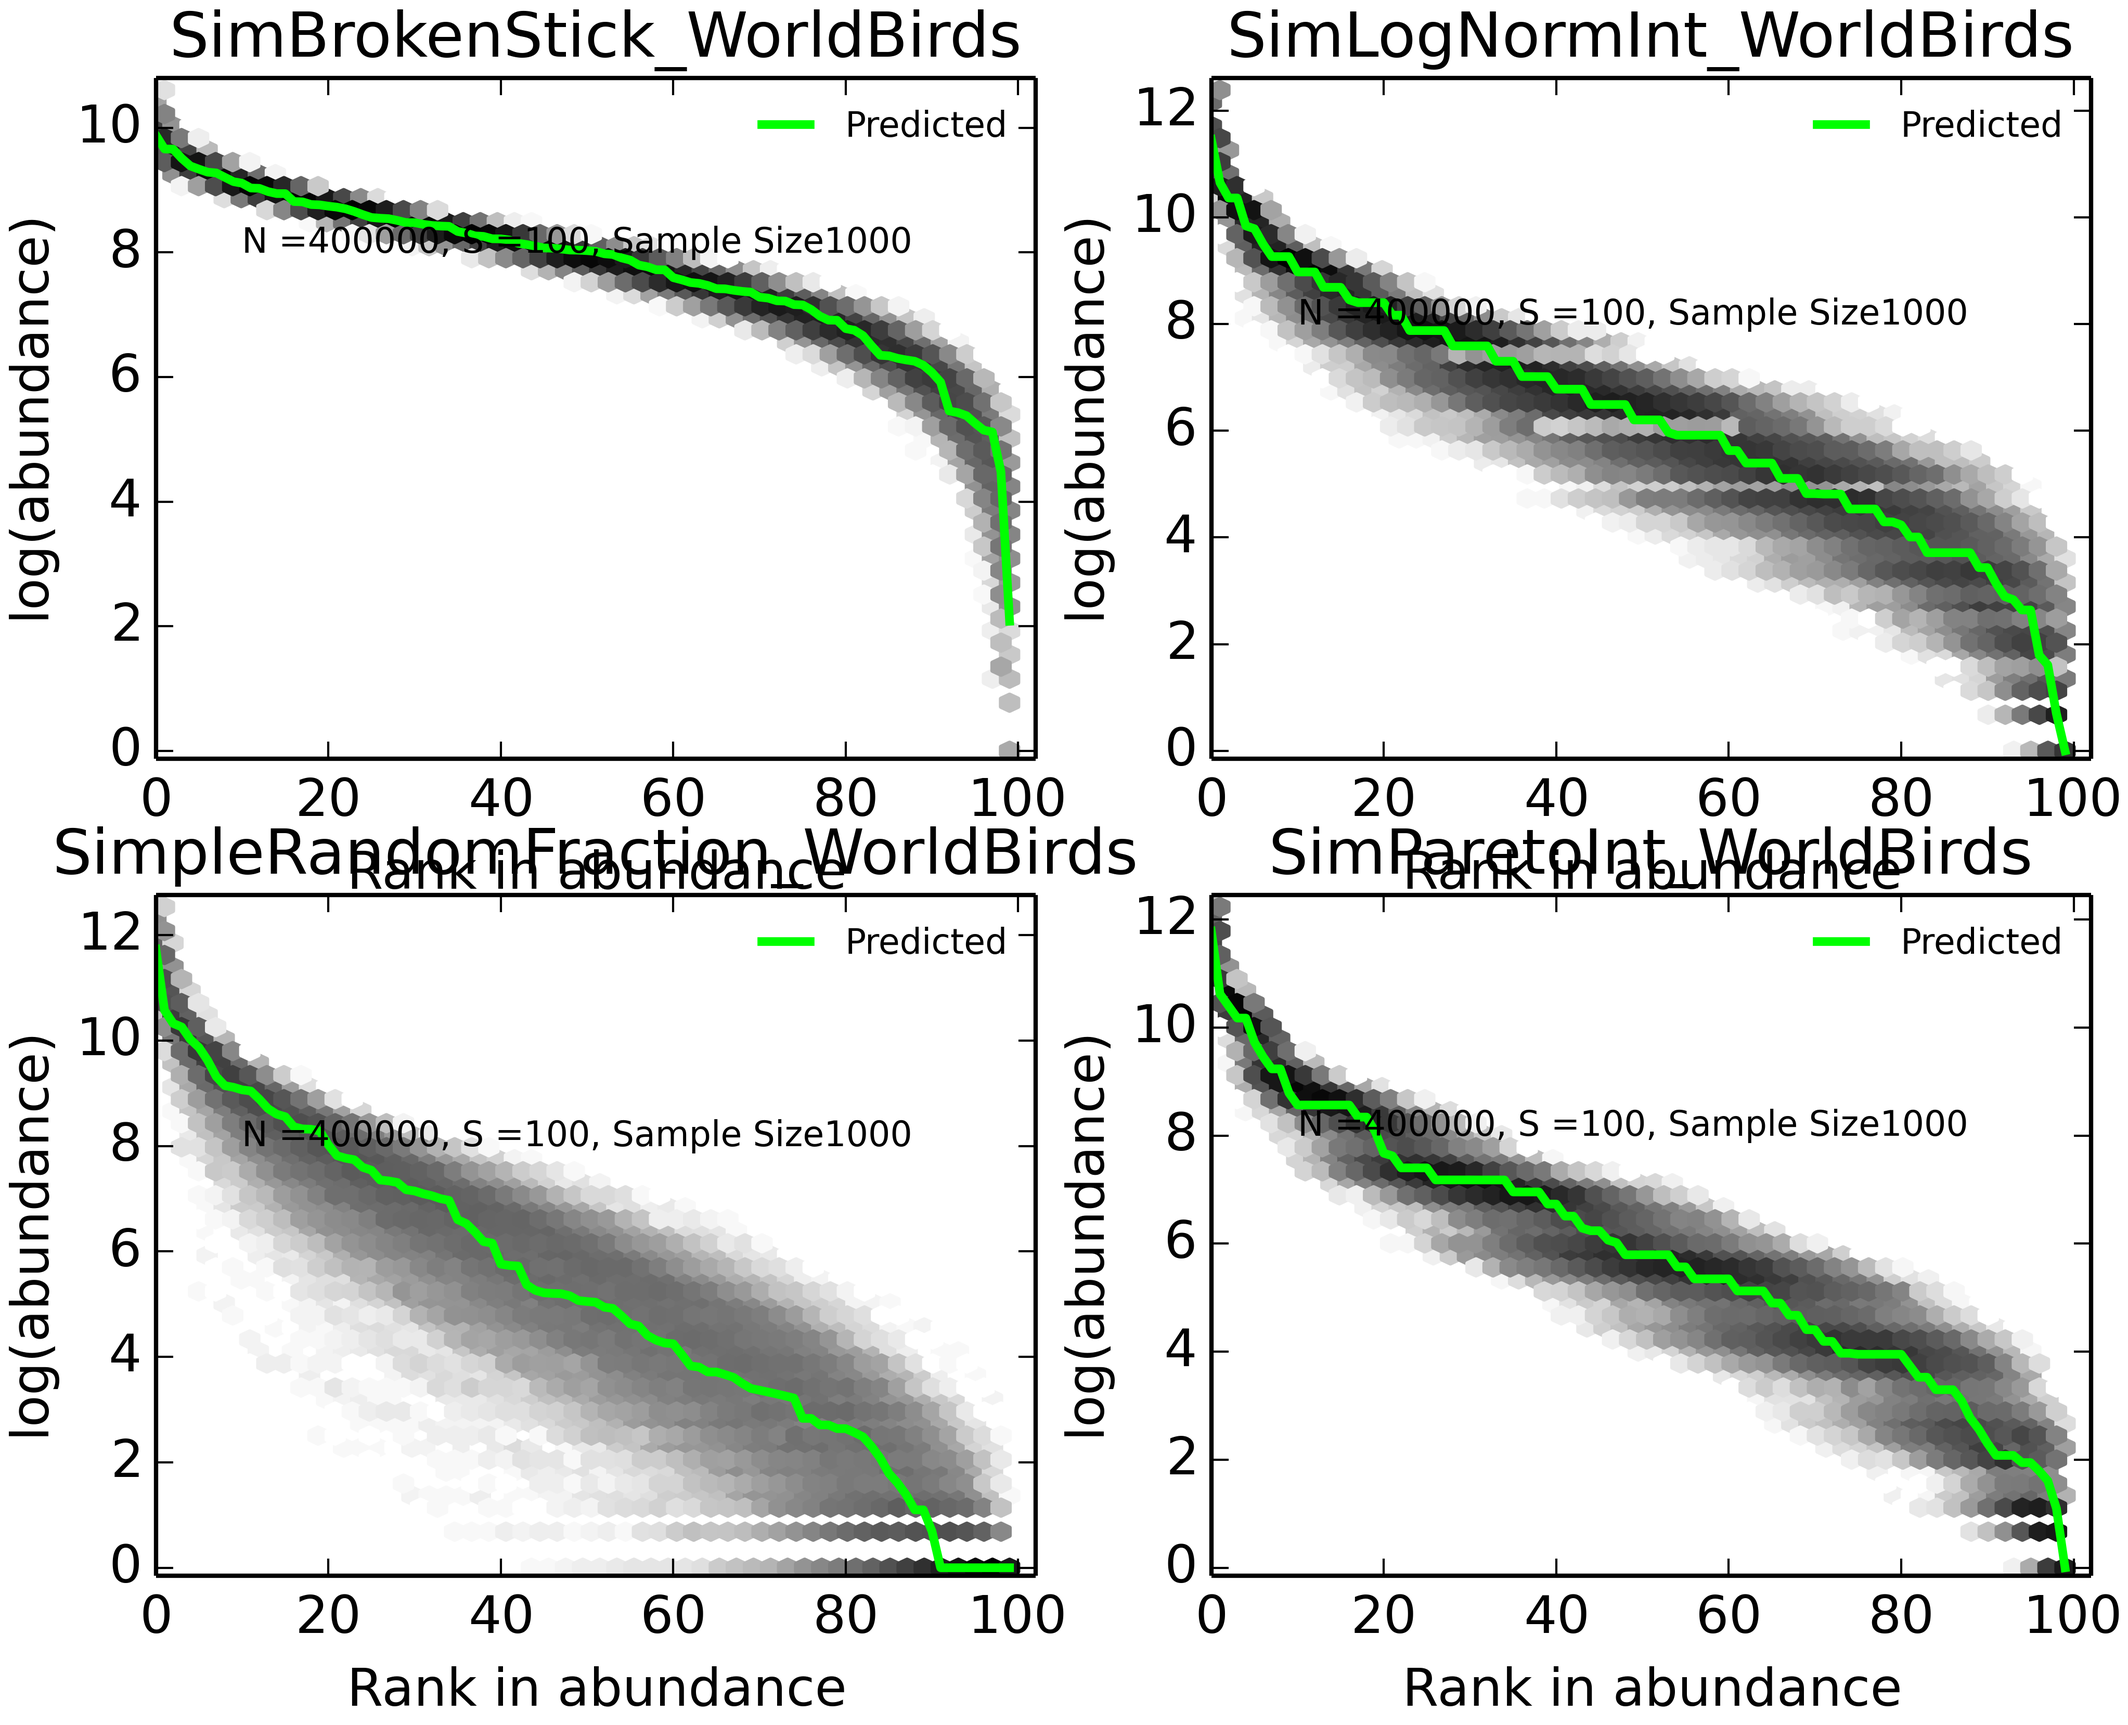
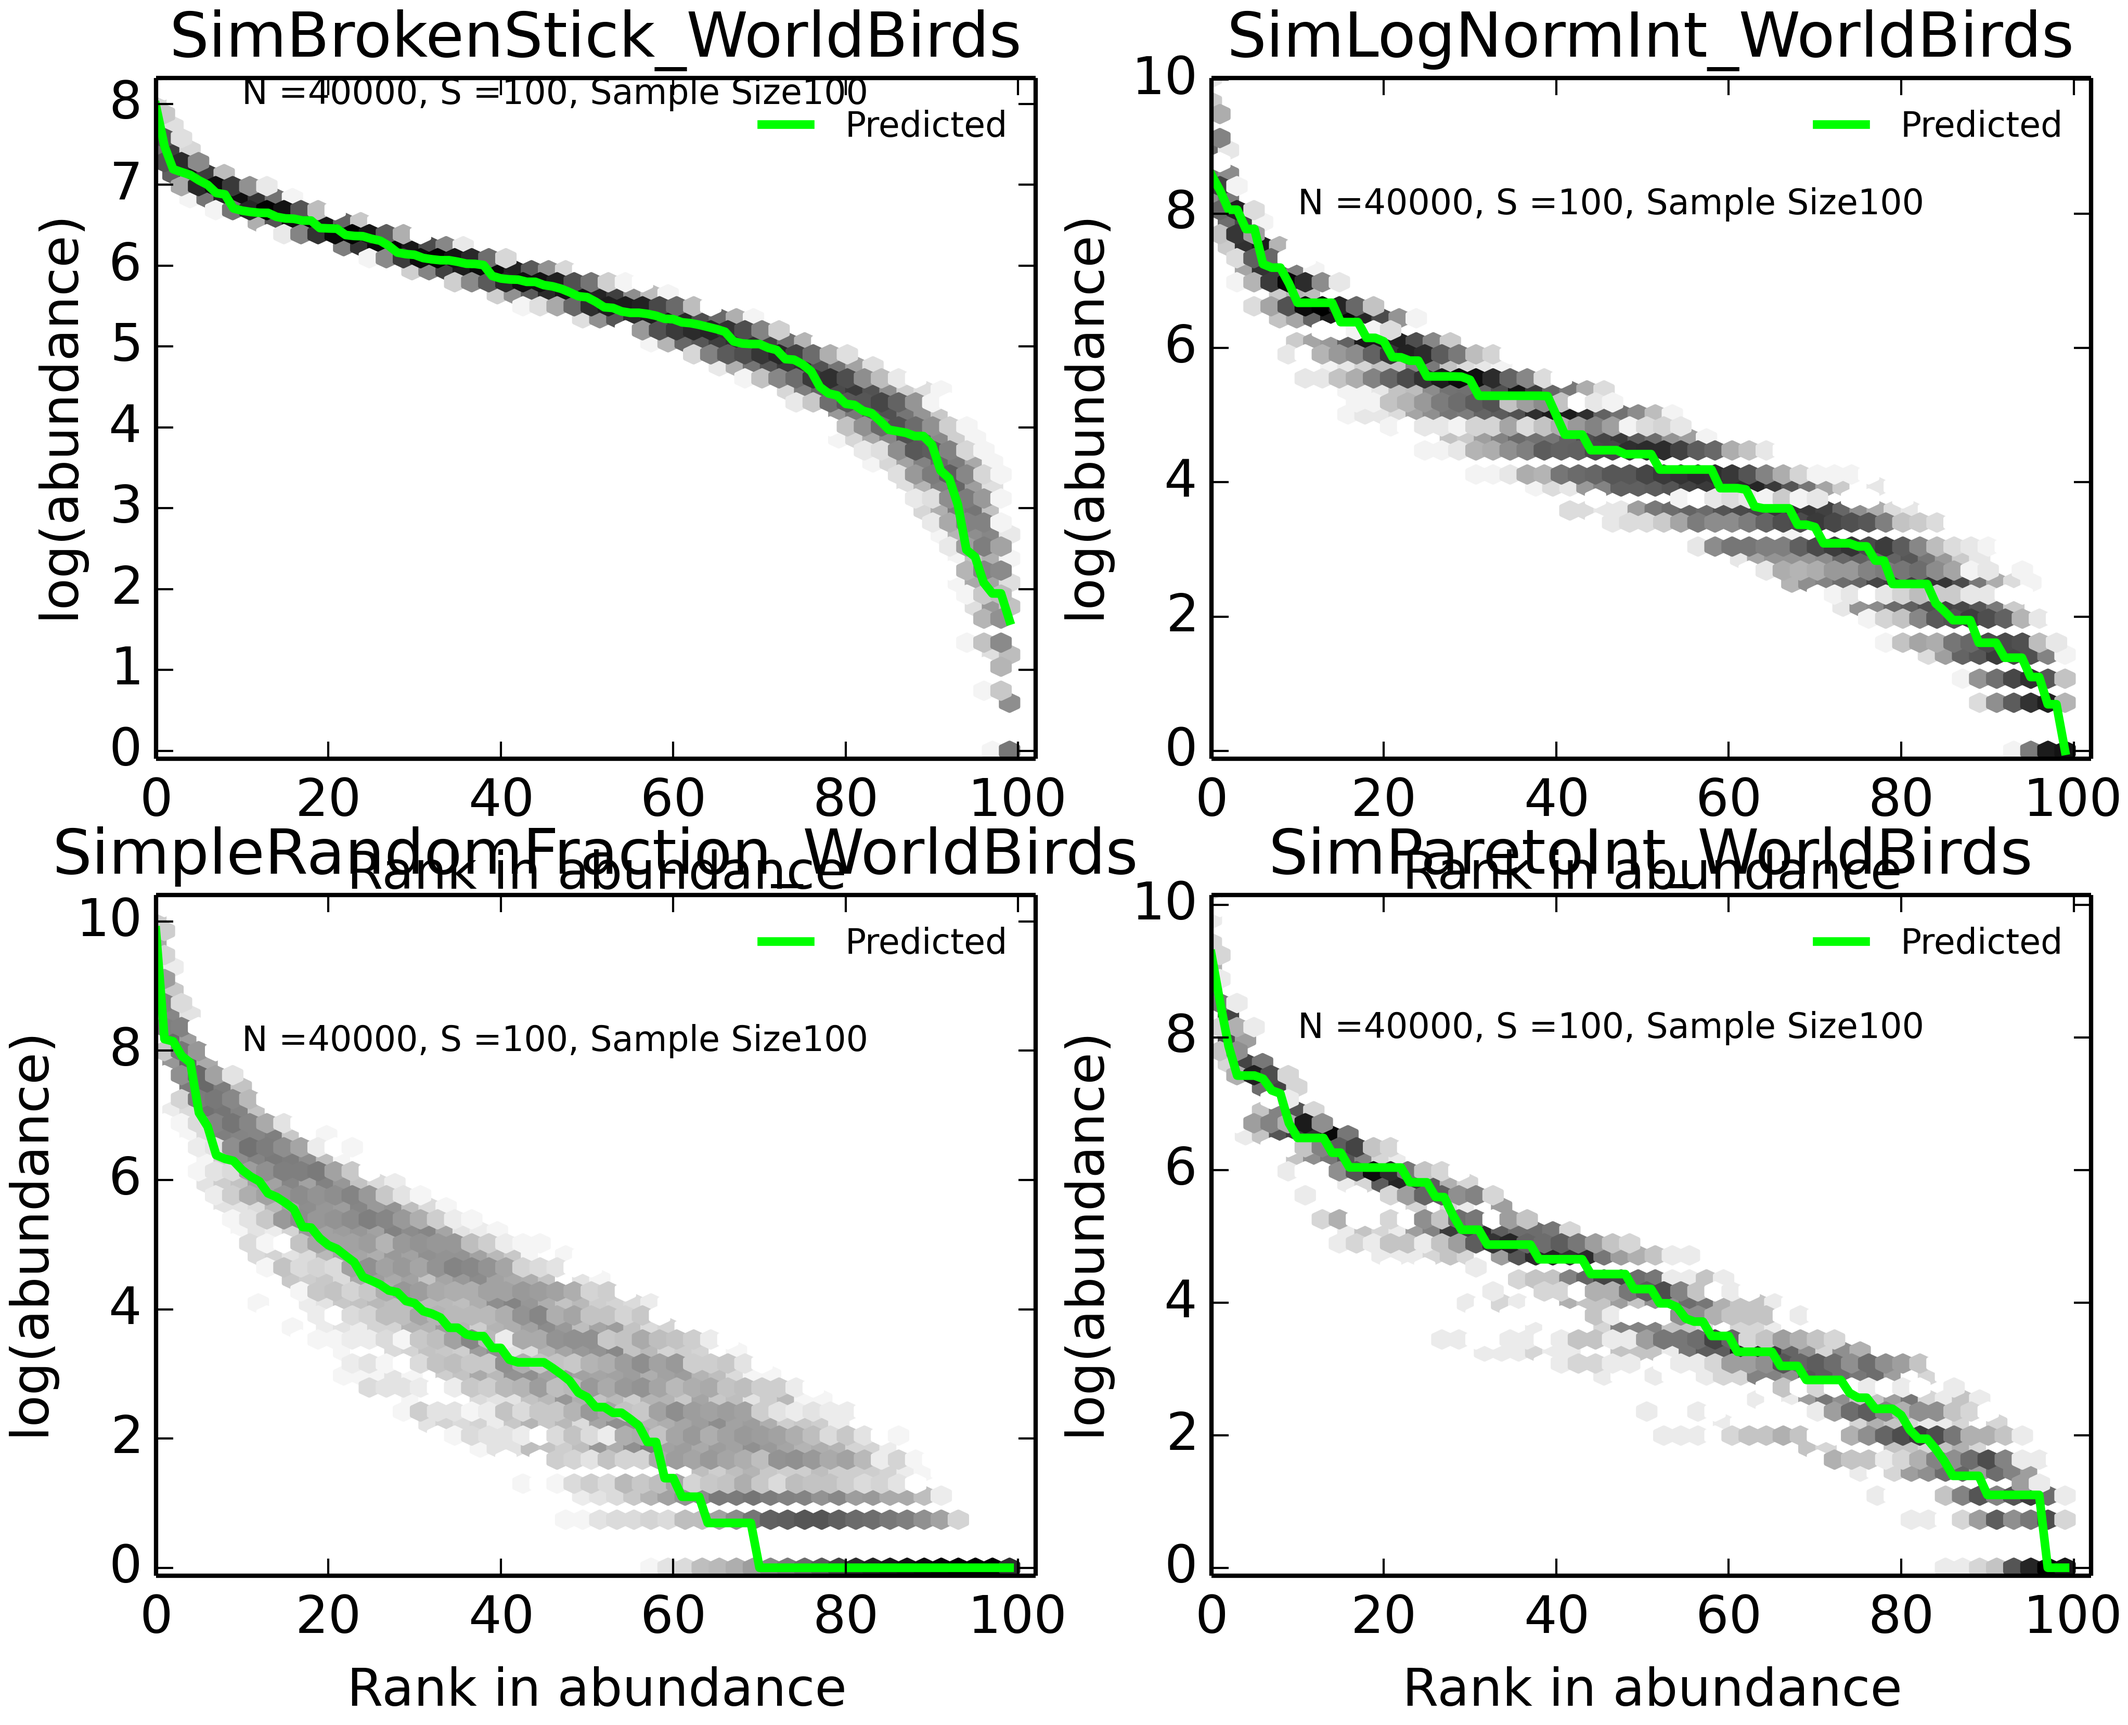
Working with big numbers

diff --git a/Projects/Mar2015meeting/PlayingWithBigNumbers.py b/Projects/Mar2015meeting/PlayingWithBigNumbers.py
@@ -19,9 +19,9 @@ Well it was a nice try but I ran out of memory.'''
 
 SADModels = ['SimBrokenStick', 'SimLogNormInt', 'SimpleRandomFraction',
                             'SimParetoInt']
-N = 400000
+N = 40000
 S = 100
-sample_size = 1000
+sample_size = 100
 fig = plt.figure()
 
 for i, model in enumerate(SADModels):
@@ -32,22 +32,25 @@ for i, model in enumerate(SADModels):
                     prdSADs = Models.SimBrokenStick(N, S, sample_size)
                     HeatMap.RACHeatMap(fig, prdSADs)
                     plt.plot(np.log(AverageShape.AvgShape(prdSADs)), color = 'lime', label = 'Predicted', lw = 2)
+                    print 'BS'
                     
         elif model == 'SimLogNormInt':
                     prdSADs = Models.SimLogNormInt(N, S, sample_size)
                     HeatMap.RACHeatMap(fig, prdSADs)
                     plt.plot(np.log(AverageShape.AvgShape(prdSADs)), color = 'lime', label = 'Predicted', lw = 2)
+                    print 'SLN'
                     
         elif model == 'SimpleRandomFraction':
                     prdSADs = Models.SimpleRandomFraction(N, S, sample_size)
                     HeatMap.RACHeatMap(fig, prdSADs)
                     plt.plot(np.log(AverageShape.AvgShape(prdSADs)), color = 'lime', label = 'Predicted', lw = 2)
+                    print 'RandFrac'
                     
         elif model == 'SimParetoInt':
                     prdSADs = Models.SimParetoInt(N, S, sample_size)
                     HeatMap.RACHeatMap(fig, prdSADs)
                     plt.plot(np.log(AverageShape.AvgShape(prdSADs)), color = 'lime', label = 'Predicted', lw = 2)
-
+                    print 'Par'
 
 
         plt.title(model +'_WorldBirds')
